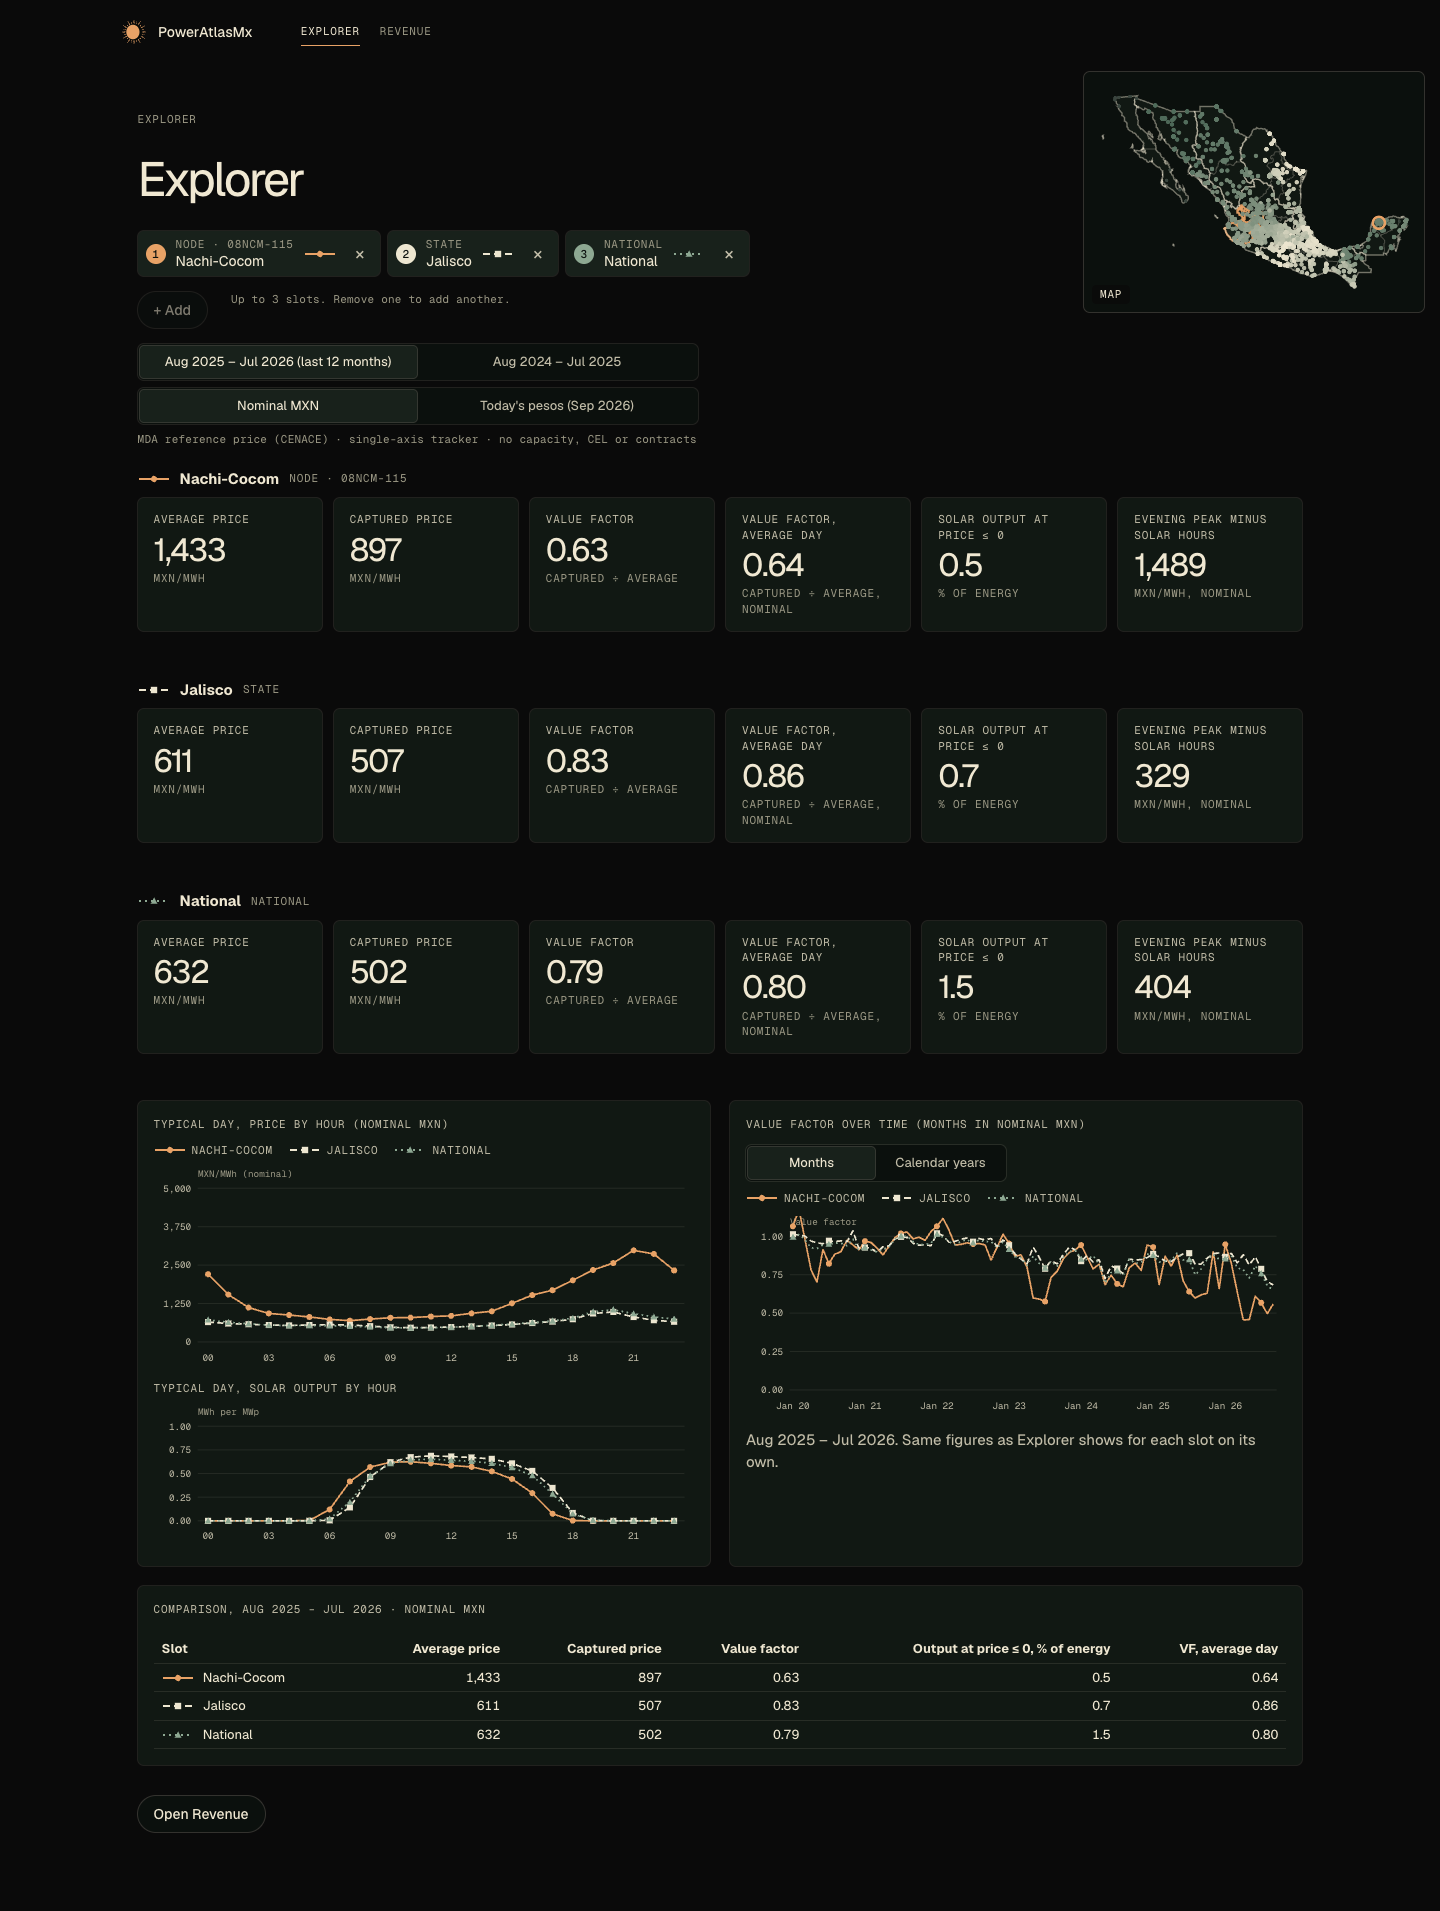
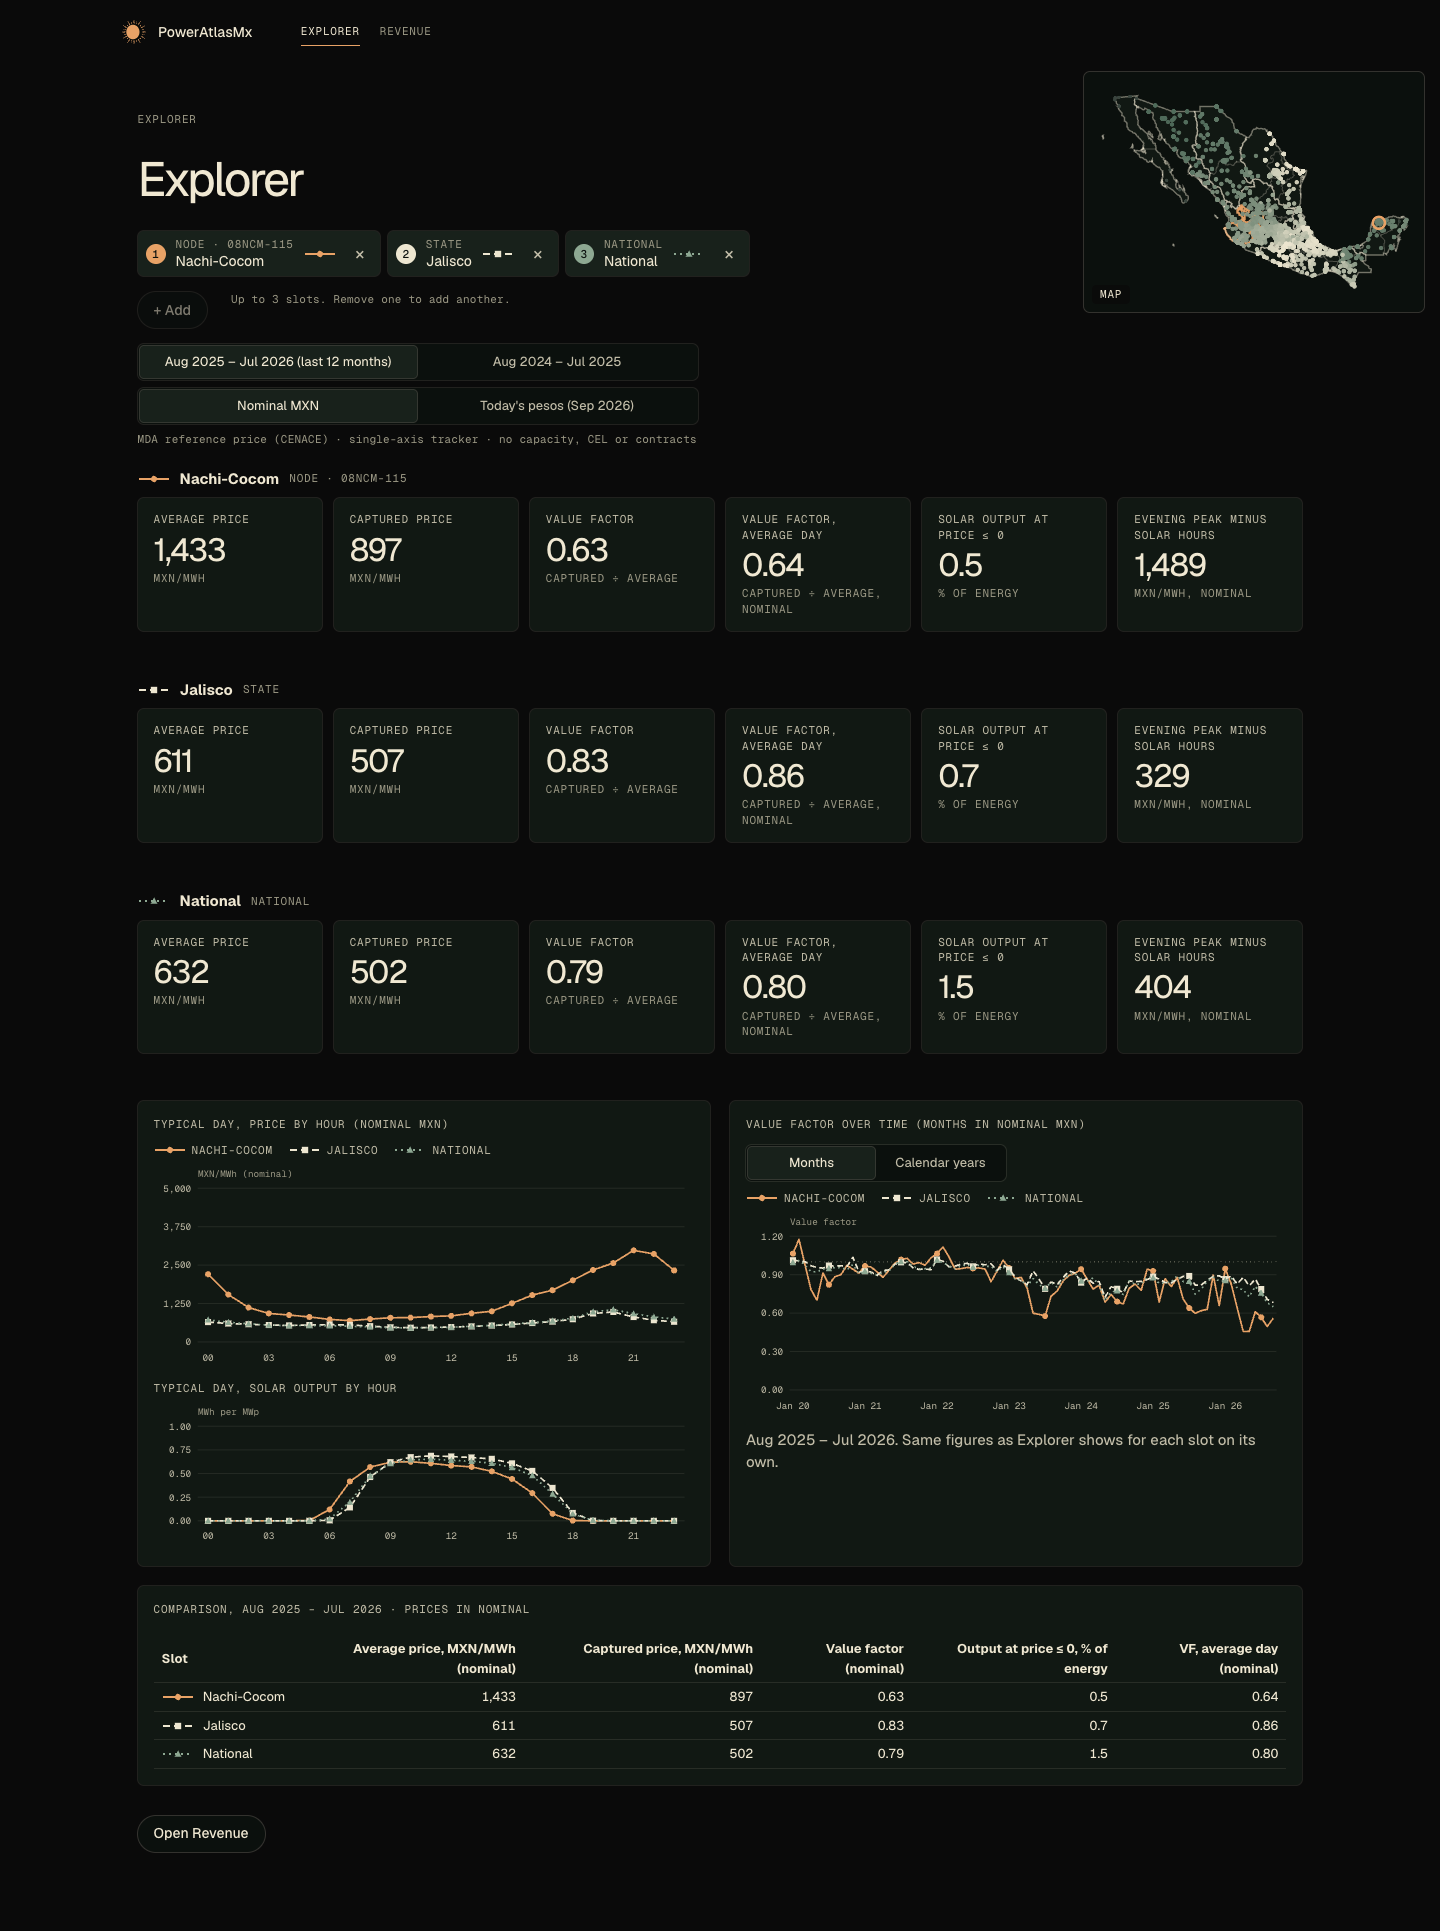
v2: compare polish

diff --git a/web/v2/assets/js/explorer-compare.js b/web/v2/assets/js/explorer-compare.js
@@ -2,9 +2,9 @@
 // Every figure comes from the same tilesOf / recordFor values Explorer shows for a single slot.
 import { WIN } from '../../../assets/js/names.js';
 import { num, mesCorto } from '../../../assets/js/format.js';
-import { compareRows, yearAxis } from './compare-data.js';
+import { compareRows, yearAxis, columnLabels } from './compare-data.js';
 import { priceBasis } from './explorer-data.js';
-import { lineChart } from './svg-charts.js';
+import { lineChart, vfAxisMax } from './svg-charts.js';
 import { legendHTML, slotHeader, slotNotice, tileHTML, tableHTML, esc } from './compare-ui.js';
 import { segment } from './controls.js';
 
@@ -20,15 +20,18 @@ export function paintExplorerCompare(el, { entries, shell, winId, view, onView }
   let vfChart;
   if (view === 'months') {
     const months = ok.length ? ok[0].series.months : [];
-    vfChart = lineChart({ series: entries.map((e) => ({ vals: e.series ? e.series.vf : months.map(() => null), label: shell.label(e.slot).t })), labels: months.map(mesCorto),
-      H: 240, yMax: 1, xEvery: 12, markEvery: 6, aria: 'Value factor by month for each selected slot', ytitle: 'Value factor' });
+    const ser = entries.map((e) => ({ vals: e.series ? e.series.vf : months.map(() => null), label: shell.label(e.slot).t }));
+    vfChart = lineChart({ series: ser, labels: months.map(mesCorto), refs: [1],
+      H: 240, yMax: vfAxisMax(ser.flatMap((x) => x.vals)), xEvery: 12, markEvery: 6, aria: 'Value factor by month for each selected slot', ytitle: 'Value factor' });
   } else {
     const ya = yearAxis(entries, real);
-    vfChart = lineChart({ series: entries.map((e, k) => ({ vals: ya.vals[k], label: shell.label(e.slot).t })), labels: ya.years, H: 240, yMax: 1, aria: 'Value factor by calendar year for each selected slot', ytitle: 'Value factor' });
+    const ser = entries.map((e, k) => ({ vals: ya.vals[k], label: shell.label(e.slot).t }));
+    vfChart = lineChart({ series: ser, labels: ya.years, refs: [1], H: 240, yMax: vfAxisMax(ser.flatMap((x) => x.vals)), aria: 'Value factor by calendar year for each selected slot', ytitle: 'Value factor' });
   }
+  const L = columnLabels(real);
   const cols = [
-    { h: 'Average price', get: (r) => r.tiles.base.text }, { h: 'Captured price', get: (r) => r.tiles.cap.text }, { h: 'Value factor', get: (r) => r.tiles.vf.text },
-    { h: 'Output at price ≤ 0, % of energy', get: (r) => r.tiles.z.text }, { h: 'VF, average day', get: (r) => r.tiles.vfDay.text },
+    { h: L.base, get: (r) => r.tiles.base.text }, { h: L.cap, get: (r) => r.tiles.cap.text }, { h: L.vf, get: (r) => r.tiles.vf.text },
+    { h: L.z, get: (r) => r.tiles.z.text }, { h: L.vfDay, get: (r) => r.tiles.vfDay.text },
   ];
   el.innerHTML = `${tiles}
     <div class="xp-cols">
@@ -38,7 +41,7 @@ export function paintExplorerCompare(el, { entries, shell, winId, view, onView }
         <div class="legend mono">${legendHTML(entries, shell)}</div><div class="chart">${vfChart}</div>
         <p class="xp-text">${esc(w.label)}. Same figures as Explorer shows for each slot on its own.</p></section>
     </div>
-    <section class="xp-card"><h2 class="mono">Comparison, ${esc(w.label)}${real ? " · today's pesos" : ' · nominal MXN'}</h2>${tableHTML(rows, entries, shell, cols)}</section>`;
+    <section class="xp-card"><h2 class="mono">${esc(L.heading(w.label))}</h2>${tableHTML(rows, entries, shell, cols)}</section>`;
   segment(el.querySelector('#cx-view'), [['months', 'Months'], ['years', 'Calendar years']], view, onView);
   void priceBasis;
 }

diff --git a/web/v2/assets/js/revenue-compare.js b/web/v2/assets/js/revenue-compare.js
@@ -1,7 +1,7 @@
 // Revenue with 2-3 slots: revenue per MWp per slot, hour-by-hour revenue overlay, comparison table, scaling disclosure per slot.
 import { WIN } from '../../../assets/js/names.js';
 import { num } from '../../../assets/js/format.js';
-import { compareRows } from './compare-data.js';
+import { compareRows, columnLabels } from './compare-data.js';
 import { tableLabels } from './explorer-data.js';
 import { lineChart } from './svg-charts.js';
 import { legendHTML, slotHeader, slotNotice, tileHTML, tableHTML, esc } from './compare-ui.js';
@@ -21,11 +21,12 @@ export function paintRevenueCompare(el, { entries, shell, winId }) {
   const labels = Array.from({ length: 24 }, (_, i) => String(i).padStart(2, '0'));
   const series = rows.map((r, k) => ({ vals: r.ok && r.rev.hours ? r.rev.hours.real : Array(24).fill(null), label: shell.label(entries[k].slot).t }));
   const chart = lineChart({ series, labels, H: 250, xEvery: 3, fmt: (v) => num(v, 0), aria: 'Typical day: hour-by-hour revenue of 1 MWp for each selected slot', ytitle: `MXN per MWp, per day (${pesos})` });
+  const L = columnLabels(real);
   const cols = [
-    { h: `Revenue per MWp per year, M MXN (${pesos})`, get: (r) => mil(r.rev.total) }, { h: `Shortcut, M MXN (${pesos})`, get: (r) => mil(r.rev.shortcut) },
-    { h: 'Shortcut overstates, %', get: (r) => (r.rev.over === null ? '—' : num(r.rev.over, 0)) },
-    { h: 'Average price', get: (r) => r.tiles.base.text }, { h: 'Captured price', get: (r) => r.tiles.cap.text }, { h: 'Value factor', get: (r) => r.tiles.vf.text },
-    { h: 'Output at price ≤ 0, % of energy', get: (r) => r.tiles.z.text }, { h: 'VF, average day', get: (r) => r.tiles.vfDay.text },
+    { h: L.revenue, get: (r) => mil(r.rev.total) }, { h: L.shortcut, get: (r) => mil(r.rev.shortcut) },
+    { h: L.over, get: (r) => (r.rev.over === null ? '—' : num(r.rev.over, 0)) },
+    { h: L.base, get: (r) => r.tiles.base.text }, { h: L.cap, get: (r) => r.tiles.cap.text }, { h: L.vf, get: (r) => r.tiles.vf.text },
+    { h: L.z, get: (r) => r.tiles.z.text }, { h: L.vfDay, get: (r) => r.tiles.vfDay.text },
   ];
   const notes = rows.filter((r) => r.ok && r.rev.scale !== null).map((r, k) => {
     const lab = tableLabels(real, r.rev.scale), gap = r.rev.gap === null ? '' : ` Typical day × 365 is ${num(Math.abs(r.rev.gap), 1)}% ${r.rev.gap >= 0 ? 'above' : 'below'} the published yearly revenue (nominal).`;
@@ -34,5 +35,5 @@ export function paintRevenueCompare(el, { entries, shell, winId }) {
   el.innerHTML = `${blocks}
     <section class="xp-card"><h2 class="mono">Typical day, hour-by-hour revenue of 1 MWp (scaled to the published yearly figure)</h2><div class="legend mono">${legendHTML(entries, shell)}</div><div class="chart narrow">${chart}</div>
       <details><summary class="mono">How the bars are scaled</summary><ul class="xp-text scale-notes">${notes}</ul></details></section>
-    <section class="xp-card"><h2 class="mono">Comparison, ${esc(w.label)}</h2>${tableHTML(rows, entries, shell, cols)}</section>`;
+    <section class="xp-card"><h2 class="mono">${esc(L.heading(w.label))}</h2>${tableHTML(rows, entries, shell, cols)}</section>`;
 }

diff --git a/web/v2/assets/js/svg-charts.js b/web/v2/assets/js/svg-charts.js
@@ -25,7 +25,7 @@ function axis(H, lo, hi, fmt, ytitle) {
 }
 
 /** bars: [{v, label, color, tip}], hline: {v, label}. xEvery: label every n bars. */
-export function barChart({ bars, hline = null, H = 220, yMax = null, yMin = 0, fmt = (v) => num(v, 2), xEvery = 1, aria, ytitle = '' }) {
+export function barChart({ bars, hline = null, refs = [], H = 220, yMax = null, yMin = 0, fmt = (v) => num(v, 2), xEvery = 1, aria, ytitle = '' }) {
   const vals = bars.map((b) => b.v).filter((v) => v !== null && v !== undefined);
   const hi = yMax || niceMax(Math.max(...vals, hline ? hline.v : 0)), lo = yMin;
   const { g, y } = axis(H, lo, hi, fmt, ytitle);
@@ -39,6 +39,7 @@ export function barChart({ bars, hline = null, H = 220, yMax = null, yMin = 0, f
     }
     if (i % xEvery === 0) out += `<text x="${(x + bw / 2).toFixed(1)}" y="${H - 12}" text-anchor="middle" class="tick">${esc(b.label)}</text>`;
   });
+  for (const r of refs) out += `<line x1="${PAD.l}" x2="${W - PAD.r}" y1="${y(r)}" y2="${y(r)}" class="refline"><title>Value factor 1.0</title></line>`;
   if (hline && hline.v !== null) out += `<line x1="${PAD.l}" x2="${W - PAD.r}" y1="${y(hline.v)}" y2="${y(hline.v)}" class="hline"><title>${esc(hline.label)}</title></line>`;
   return frame(H, aria, out);
 }
@@ -84,13 +85,14 @@ export function pairChart({ a, b, ca, cb, H = 220, aria, ytitle = 'MXN per MWp',
 }
 
 /** overlay of up to 3 series. series: [{vals, label}] in slot order (style i). nulls break the line. markEvery: marker every n points. */
-export function lineChart({ series, labels, H = 220, yMin = 0, yMax = null, fmt = (v) => num(v, 2), xEvery = 1, markEvery = 1, aria, ytitle = '' }) {
+export function lineChart({ series, labels, refs = [], H = 220, yMin = 0, yMax = null, fmt = (v) => num(v, 2), xEvery = 1, markEvery = 1, aria, ytitle = '' }) {
   const all = series.flatMap((s) => s.vals).filter((v) => v !== null && v !== undefined);
   const hi = yMax || niceMax(Math.max(...all, 0)), lo = Math.min(yMin, ...all, 0) < 0 ? -niceMax(-Math.min(...all)) : yMin;
   const { g, y } = axis(H, lo, hi, fmt, ytitle);
   const n = labels.length, iw = W - PAD.l - PAD.r, step = iw / n, X = (i) => PAD.l + step * i + step / 2;
   let out = g;
   labels.forEach((l, i) => { if (i % xEvery === 0) out += `<text x="${X(i).toFixed(1)}" y="${H - 12}" text-anchor="middle" class="tick">${esc(l)}</text>`; });
+  for (const r of refs) out += `<line x1="${PAD.l}" x2="${W - PAD.r}" y1="${y(r)}" y2="${y(r)}" class="refline"><title>Value factor 1.0</title></line>`;
   series.forEach((sr, k) => {
     const st = STYLES[k % 3];
     let d = '', pen = false;
@@ -103,4 +105,10 @@ export function lineChart({ series, labels, H = 220, yMin = 0, yMax = null, fmt 
     });
   });
   return frame(H, aria, out);
+}
+
+/** VF axis: at least 1, otherwise the next multiple of 0.4 so four grid intervals stay round (1.2, 1.6, 2.0 ...). */
+export function vfAxisMax(values) {
+  const m = Math.max(0, ...values.filter((v) => v !== null && v !== undefined && Number.isFinite(v)));
+  return m <= 1 ? 1 : Math.round(Math.ceil(m / 0.4 - 1e-9) * 0.4 * 10) / 10;
 }

diff --git a/web/v2/assets/js/chips.js b/web/v2/assets/js/chips.js
@@ -3,6 +3,10 @@ import { swatchSVG } from './series-style.js';
 const SERIES = ['var(--s1)', 'var(--s2)', 'var(--s3)'];
 const esc = (s) => String(s ?? '').replace(/[&<>"]/g, (c) => ({ '&': '&amp;', '<': '&lt;', '>': '&gt;', '"': '&quot;' }[c]));
 
+/** index of the chip to focus after removing chip i (list now has newLen chips); -1 when none are left. */
+export const nextFocusIndex = (i, newLen) => (newLen <= 0 ? -1 : Math.min(i, newLen - 1));
+export const removedMessage = (name, n, max = 3) => `Removed ${name}; ${n} of ${max} slots`;
+
 export function mountChips(ul, shell, { removable = true } = {}) {
   const render = (list) => {
     ul.innerHTML = '';
@@ -11,7 +15,14 @@ export function mountChips(ul, shell, { removable = true } = {}) {
       const li = document.createElement('li');
       li.innerHTML = `<span class="dot" style="background:${SERIES[i]}" aria-hidden="true">${i + 1}</span><span class="ct"><span class="mono">${esc(l.k)}</span>${esc(l.t)}</span>${swatchSVG(i)}`
         + (removable ? `<button type="button" aria-label="Remove ${esc(l.t)}">×</button>` : '');
-      if (removable) li.querySelector('button').addEventListener('click', () => shell.store.remove(s));
+      if (removable) li.querySelector('button').addEventListener('click', () => {
+        shell.store.remove(s); // re-renders synchronously
+        const n = shell.store.get().length, j = nextFocusIndex(i, n);
+        const live = document.getElementById('live');
+        if (live) { live.textContent = ''; setTimeout(() => { live.textContent = removedMessage(l.t, n); }, 50); }
+        const target = j >= 0 ? ul.querySelectorAll('button')[j] : document.getElementById('add-btn') || document.querySelector('h1');
+        if (target) { if (!target.hasAttribute('tabindex') && target.tagName === 'H1') target.tabIndex = -1; target.focus({ preventScroll: true }); }
+      });
       ul.append(li);
     });
   };

diff --git a/web/v2/assets/js/explorer.js b/web/v2/assets/js/explorer.js
@@ -7,7 +7,7 @@ import { loadEntries } from './compare-data.js';
 import { paintExplorerCompare } from './explorer-compare.js';
 import { serializeSel } from './store.js';
 import { mountControls, segment } from './controls.js';
-import { barChart, stackChart } from './svg-charts.js';
+import { barChart, stackChart, vfAxisMax } from './svg-charts.js';
 
 const esc = (s) => String(s ?? '').replace(/[&<>"]/g, (c) => ({ '&': '&amp;', '<': '&lt;', '>': '&gt;', '"': '&quot;' }[c]));
 const SAND = 'var(--s1)', MUTED = 'var(--c-energy)';
@@ -108,7 +108,7 @@ export function mountExplorer(host, { shell }) {
       leg = `<span><i style="background:${SAND}"></i>Complete calendar years</span><span><i class="dash"></i>VF of the window: ${num(pb.vf, 2)}</span>`;
     }
     q('#xp-vleg').innerHTML = leg;
-    q('#xp-vf').innerHTML = barChart({ bars, hline: { v: pb.vf, label: `Window ${num(pb.vf, 2)}` }, yMax: 1, H: 240, xEvery: view === 'months' ? 12 : 1, aria: view === 'months' ? 'Value factor by month' : 'Value factor by calendar year', ytitle: 'Value factor' });
+    q('#xp-vf').innerHTML = barChart({ bars, hline: { v: pb.vf, label: `Window ${num(pb.vf, 2)}` }, refs: [1], yMax: vfAxisMax(bars.map((b) => b.v).concat([pb.vf])), H: 240, xEvery: view === 'months' ? 12 : 1, aria: view === 'months' ? 'Value factor by month' : 'Value factor by calendar year', ytitle: 'Value factor' });
     q('#xp-table').innerHTML = `<table><thead><tr><th>${view === 'months' ? 'Month' : 'Year'}</th><th class="n">Value factor</th></tr></thead><tbody>${rows.map((r) => `<tr><td>${esc(r[0])}</td><td class="n">${r[1] === null ? '—' : num(r[1], 2)}</td></tr>`).join('')}</tbody></table>`;
     const l = shell.label(slot);
     const gap = rec.vf - rec.vfDay;

diff --git a/web/v2/assets/js/compare-data.js b/web/v2/assets/js/compare-data.js
@@ -38,3 +38,14 @@ export function yearAxis(entries, real = false) {
   const years = [...new Set(per.flatMap((r) => r.map((y) => y.label)))].sort();
   return { years, vals: per.map((rows) => years.map((y) => { const r = rows.find((x) => x.label === y); return r ? r.vf : null; })) };
 }
+
+/** table column headings per price basis (average/captured/VF follow the toggle; spread, <= 0 share and average-day VF are nominal figures). */
+export function columnLabels(real) {
+  const b = real ? "today's pesos" : 'nominal';
+  return {
+    heading: (win) => `Comparison, ${win} · prices in ${b}`,
+    base: `Average price, MXN/MWh (${b})`, cap: `Captured price, MXN/MWh (${b})`, vf: `Value factor (${b})`,
+    z: 'Output at price ≤ 0, % of energy', vfDay: 'VF, average day (nominal)',
+    revenue: `Revenue per MWp per year, M MXN (${b})`, shortcut: `Shortcut, M MXN (${b})`, over: 'Shortcut overstates, %',
+  };
+}

diff --git a/web/v2/assets/css/explorer.css b/web/v2/assets/css/explorer.css
@@ -66,3 +66,4 @@ details summary { cursor: pointer; color: var(--ink-2); }
 #xp-cmp:not([hidden]), #rv-cmp:not([hidden]) { display: grid; gap: 20px; }
 .xp-vhead .seg[id="cx-view"] { grid-template-columns: repeat(2, 1fr); }
 .chart.narrow svg { max-width: 760px; }
+.chart .refline { stroke: var(--ink-3); stroke-width: 1; stroke-dasharray: 1 4; }
